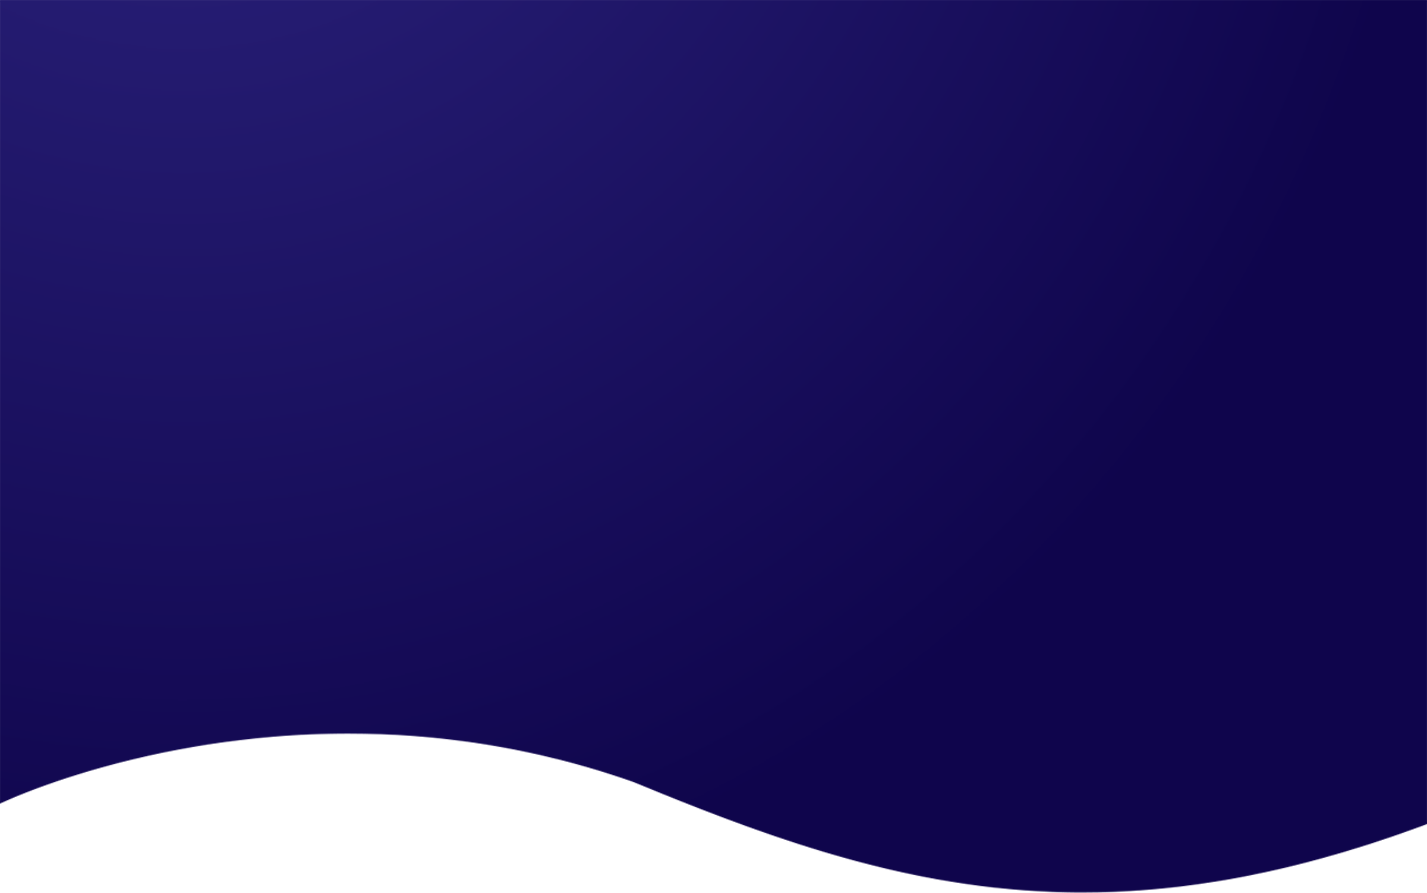
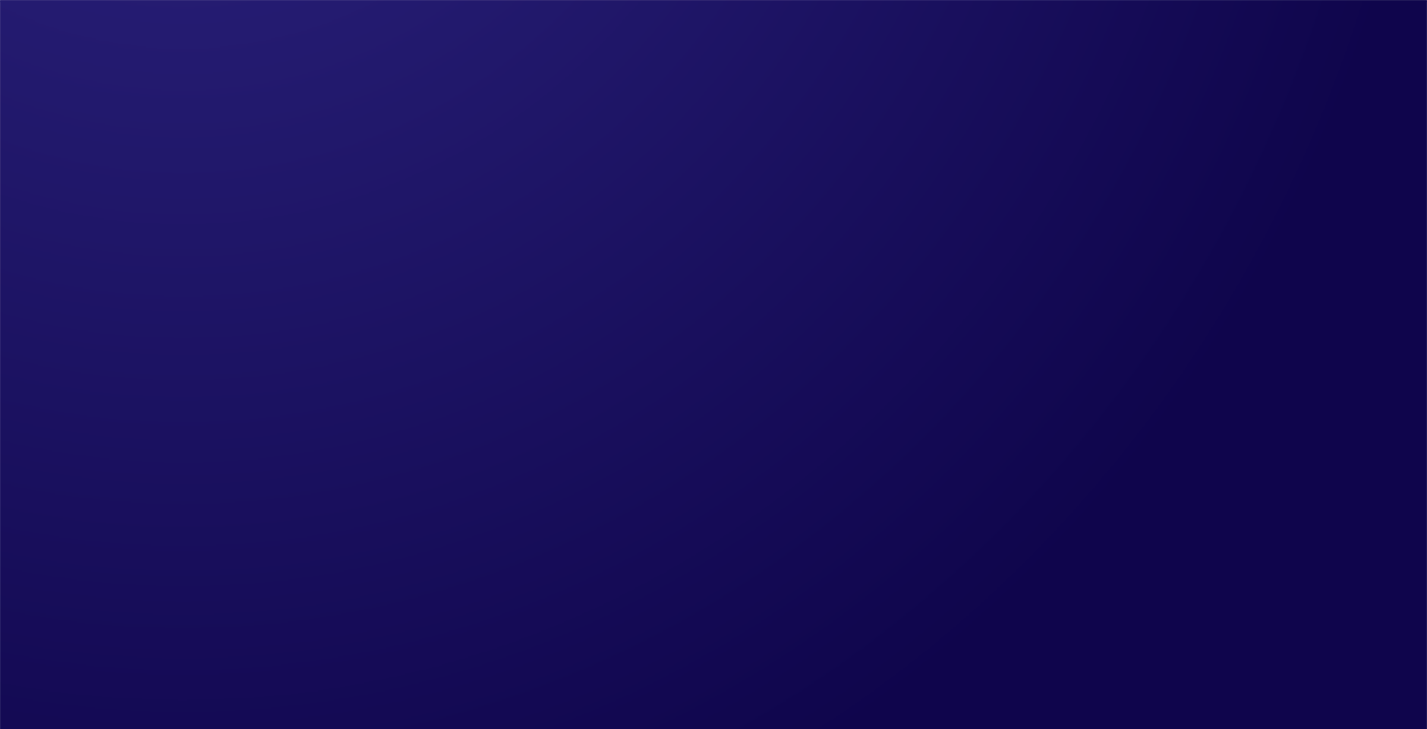
Improving portfolio

Changed region(s): [[0.0, 0.8148, 1.0, 1.0]]

diff --git a/index.html b/index.html
@@ -24,7 +24,7 @@
    <body class="font-sora text-white">
       <header id="header" class="h-svh">
          <div class="bg">
-            <img src="./public/images/bg-image1.png" alt="">
+            <img src="./public/images/bg-image.png" alt="">
             <div class="custom-shape-divider-bottom-1711275511">
                <svg data-name="Layer 1" xmlns="http://www.w3.org/2000/svg" viewBox="0 0 1200 120" preserveAspectRatio="none">
                    <path d="M321.39,56.44c58-10.79,114.16-30.13,172-41.86,82.39-16.72,168.19-17.73,250.45-.39C823.78,31,906.67,72,985.66,92.83c70.05,18.48,146.53,26.09,214.34,3V0H0V27.35A600.21,600.21,0,0,0,321.39,56.44Z" class="shape-fill"></path>
@@ -147,20 +147,7 @@
                         <a href="https://www.facebook.com/profile.php?id=100016184046326" title="facebook"><i class="fa-brands fa-facebook"></i></a>
                         <a href="https://github.com/Shady-Mo" title="github"><i class="fa-brands fa-github"></i></a>
                         <a href="https://codeforces.com/profile/Shady_Mo" title="codeforces">
-                           <svg version="1.1" id="Layer_1" xmlns="http://www.w3.org/2000/svg" xmlns:xlink="http://www.w3.org/1999/xlink" x="0px" y="0px"
-                              viewBox="0 0 1366 768" style="enable-background:new 0 0 1366 768;" xml:space="preserve">
-                           <style type="text/css">
-                              .social-links svg {
-                                 .st0{fill:#FFFFFF;};
-                              }
-                           </style>
-                           <path class="st0" d="M998.32,366.74H884.04c-18.9,0-34.22,15.32-34.22,34.22v233.54c0,18.9,15.32,34.22,34.22,34.22h114.28
-                              c18.9,0,34.22-15.32,34.22-34.22V400.96C1032.54,382.06,1017.22,366.74,998.32,366.74z"/>
-                           <path class="st0" d="M738.49,668.73H624.22c-18.9,0-34.22-15.32-34.22-34.22V133.49c0-18.9,15.32-34.22,34.22-34.22h114.28
-                              c18.9,0,34.22,15.32,34.22,34.22v501.01C772.71,653.41,757.39,668.73,738.49,668.73z"/>
-                           <path class="st0" d="M478.76,668.73H370.88c-18.85,0-34.13-15.28-34.13-34.13V286.98c0-18.85,15.28-34.13,34.13-34.13h107.88
-                              c18.85,0,34.13,15.28,34.13,34.13V634.6C512.89,653.45,497.61,668.73,478.76,668.73z"/>
-                           </svg>
+                           <img src="./public/images/codeforces-image.png" alt="">
                         </a>
                      </div>
                   </div>

diff --git a/public/css/style.css b/public/css/style.css
@@ -1150,6 +1150,12 @@ header .container .info .data .links a button:hover {
     width: 35px;
     height: 35px;
   }
+
+  header .container .info .data .links .social-links img {
+    height: 16px;
+    width: -moz-fit-content;
+    width: fit-content;
+  }
 }
 
 @media (max-width: 767px) {
@@ -1161,6 +1167,16 @@ header .container .info .data .links a button:hover {
 
   header .container .info .data .links {
     margin: auto;
+  }
+
+  header .container .info .data .links .social-links a {
+    font-size: 1.25em;
+  }
+
+  header .container .info .data .links .social-links img {
+    height: 19px;
+    width: -moz-fit-content;
+    width: fit-content;
   }
 }
 
@@ -1177,6 +1193,12 @@ header .container .info .data .links a button:hover {
   header .container .info .data .links .social-links a {
     width: 35px;
     height: 35px;
+  }
+
+  header .container .info .data .links .social-links img {
+    height: 17px;
+    width: -moz-fit-content;
+    width: fit-content;
   }
 }
 

diff --git a/src/style.css b/src/style.css
@@ -458,6 +458,11 @@ header .container .info .data .links a button:hover {
       width: 35px;
       height: 35px;
    }
+
+   header .container .info .data .links .social-links img {
+      height: 16px;
+      width: fit-content;
+   }
 }
 
 @media (max-width: 767px) {
@@ -469,6 +474,15 @@ header .container .info .data .links a button:hover {
 
    header .container .info .data .links {
       margin: auto;
+   }
+
+   header .container .info .data .links .social-links a {
+      font-size: 1.25em;
+   }
+
+   header .container .info .data .links .social-links img {
+      height: 19px;
+      width: fit-content;
    }
 }
 
@@ -485,6 +499,11 @@ header .container .info .data .links a button:hover {
    header .container .info .data .links .social-links a {
       width: 35px;
       height: 35px;
+   }
+
+   header .container .info .data .links .social-links img {
+      height: 17px;
+      width: fit-content;
    }
 }
 
